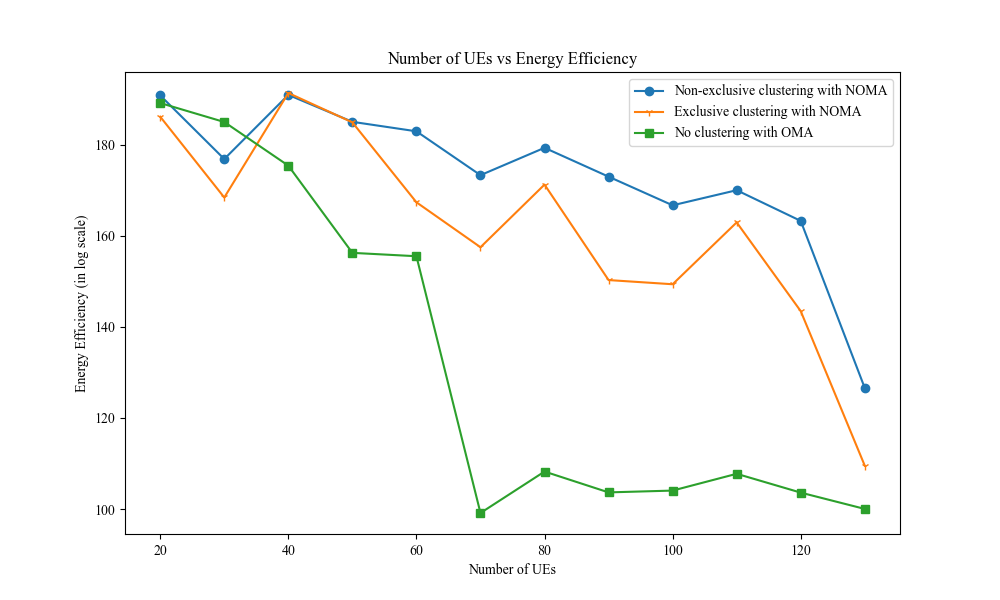
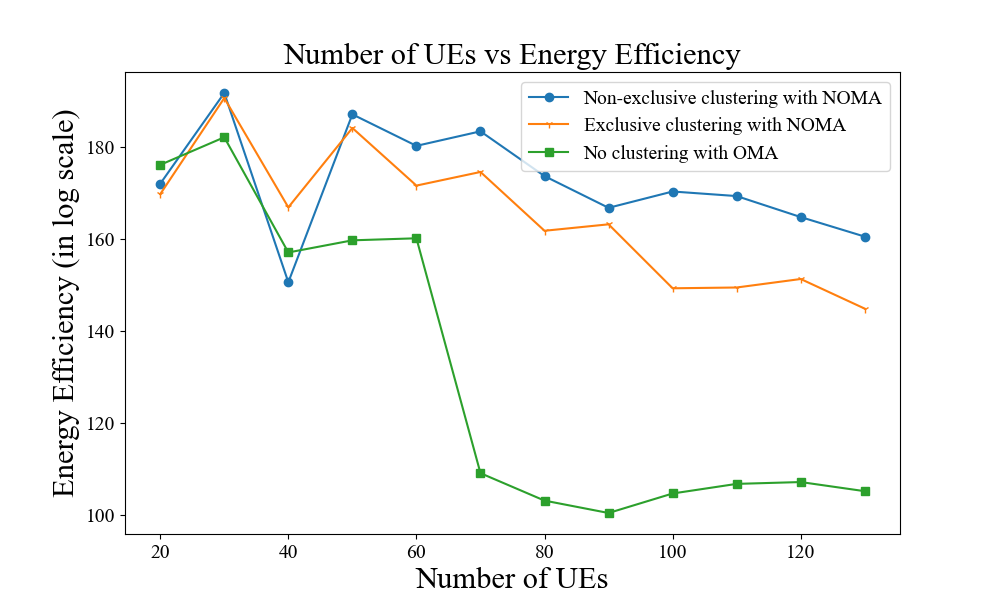
modified font sizes of the graphs

diff --git a/plot_user_vs_power.py b/plot_user_vs_power.py
@@ -1,6 +1,8 @@
 import pandas as pd
 import matplotlib.pyplot as plt
 
+
+
 # Update rcParams to use Times New Roman
 plt.rcParams['font.family'] = 'serif'
 plt.rcParams['font.serif'] = 'Times New Roman'
@@ -13,16 +15,19 @@ plt.rcParams['mathtext.bf'] = 'Times New Roman:bold'
 csv_file_name = 'data_numberOfUEs_vs_power.csv'
 data = pd.read_csv(csv_file_name)
 
+font_size = 22
 # Plot 1: Number of UEs vs NOMA_total_power and OMA_total_power
 plt.figure(figsize=(10, 6))
 plt.plot(data['number_of_UEs'], [46]*len(data['number_of_UEs']), 'r--', label='maximum power')
 plt.plot(data['number_of_UEs'], data['NOMA_total_power'], label='Non-exclusive clustering with NOMA', marker='o')
 plt.plot(data['number_of_UEs'], data['ex-NOMA_total_power'], label='Exclusive clustering with NOMA', marker='o')
 plt.plot(data['number_of_UEs'], data['OMA_total_power'], label='No clustering with OMA', marker='s')
-plt.xlabel('Number of UEs')
-plt.ylabel('Total Transmit Power (dBm)')
-plt.title('Number of UEs vs Total Transmit Power')
-plt.legend()
+plt.xlabel('Number of UEs', fontsize=font_size)
+plt.ylabel('Total Transmit Power (dBm)', fontsize=font_size)
+plt.title('Number of UEs vs Total Transmit Power', fontsize=font_size)
+plt.legend(fontsize=font_size-8)
+plt.xticks(fontsize=font_size-8)
+plt.yticks(fontsize=font_size-8)
 plt.savefig('Fig_UEs_vs_TotalPower.png')
 
 # Plot 2: Number of UEs vs NOMA_energy_efficiency and OMA_energy_efficiency
@@ -30,9 +35,11 @@ plt.figure(figsize=(10, 6))
 plt.plot(data['number_of_UEs'], data['NOMA_energy_efficiency'], label='Non-exclusive clustering with NOMA', marker='o')
 plt.plot(data['number_of_UEs'], data['ex-NOMA_energy_efficiency'], label='Exclusive clustering with NOMA', marker='1')
 plt.plot(data['number_of_UEs'], data['OMA_energy_efficiency'], label='No clustering with OMA', marker='s')
-plt.xlabel('Number of UEs')
-plt.ylabel('Energy Efficiency (in log scale)')
-plt.title('Number of UEs vs Energy Efficiency')
-plt.legend()
+plt.xlabel('Number of UEs', fontsize=font_size)
+plt.ylabel('Energy Efficiency (in log scale)', fontsize=font_size)
+plt.title('Number of UEs vs Energy Efficiency', fontsize=font_size)
+plt.legend(fontsize=font_size-8)
+plt.xticks(fontsize=font_size-8)
+plt.yticks(fontsize=font_size-8)
 plt.savefig('Fig_UEs_vs_EnergyEfficiency.png')
 

diff --git a/plot_height_vs_power.py b/plot_height_vs_power.py
@@ -27,6 +27,7 @@ data = pd.read_csv(csv_file_name)
 # plt.savefig('Fig_Height_vs_Total_Power.png')
 
 # Plot 2: Height vs NOMA_energy_efficiency and OMA_energy_efficiency
+font_size = 22
 plt.figure(figsize=(10, 6))
 plt.plot(data['height'], data['NOMA_energy_efficiency_40'], label='Non-exclusive clustering with NOMA_40 UEs', marker='v')
 plt.plot(data['height'], data['NOMA_energy_efficiency_60'], label='Non-exclusive clustering with NOMA_60 UEs', marker='o')
@@ -34,8 +35,10 @@ plt.plot(data['height'], data['ex-NOMA_energy_efficiency_40'], label='Exclusive 
 plt.plot(data['height'], data['ex-NOMA_energy_efficiency_60'], label='Exclusive clustering with NOMA_60 UEs', marker='X')
 plt.plot(data['height'], data['OMA_energy_efficiency_40'], label='No clustering with OMA_40 UEs', marker='+')
 plt.plot(data['height'], data['OMA_energy_efficiency_60'], label='No clustering with OMA_60 UEs', marker='P')
-plt.xlabel('UAV Height (m)')
-plt.ylabel('Energy Efficiency (in log scale)')
-plt.title('Height vs Energy Efficiency')
-plt.legend()
+plt.xlabel('UAV Height (m)', fontsize=font_size)
+plt.ylabel('Energy Efficiency (in log scale)', fontsize=font_size)
+plt.title('Height vs Energy Efficiency', fontsize=font_size)
+plt.legend(fontsize=font_size-9)
+plt.xticks(fontsize=font_size-8)
+plt.yticks(fontsize=font_size-8)
 plt.savefig('Fig_Height_vs_Energy_Efficiency.png')
